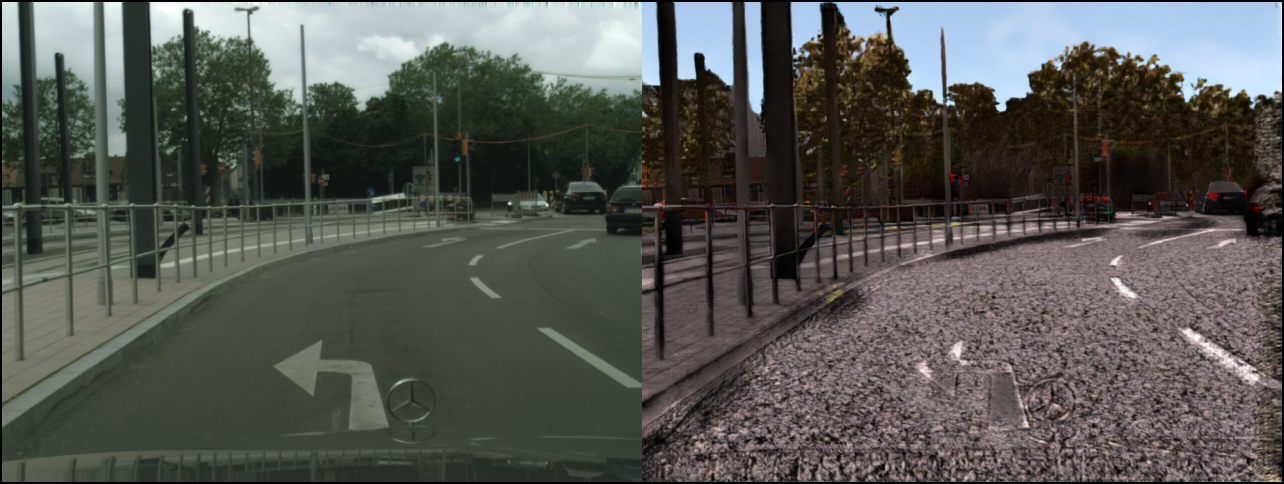
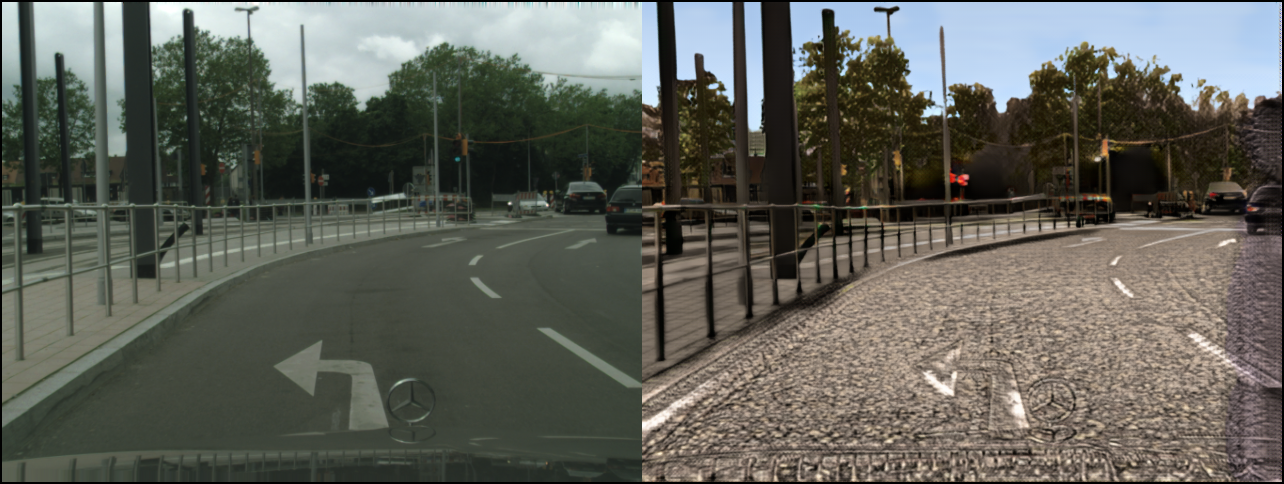
Modify USAGE page

Changed region(s): [[0.4984, 0.0, 1.0, 1.0], [0.4984, 0.031, 0.5296, 0.093]]

diff --git a/src/cocogan_translate_one_image.py b/src/cocogan_translate_one_image.py
@@ -43,7 +43,7 @@ def main(argv):
   # Prepare network
   trainer.gen.load_state_dict(torch.load(opts.weights))
   trainer.cuda(opts.gpu)
-  # trainer.gen.eval()
+  trainer.gen.eval()
 
 
   full_img_name = opts.image_name

diff --git a/USAGE.md b/USAGE.md
@@ -34,20 +34,6 @@ We also provide a [Dockerfile](Dockerfile) for building an environment for runni
 
 #### Testing 
 
-###### Synthetic-to-real and Real-to-synthetic Translation
-1. Download the pretrained model in [link](https://drive.google.com/open?id=1iTQFpyMmMLPe1eY2q-7g-3b5OSlYqc6X) to <outputs/unit/street_scene>
-
-2. Go to <src> and run the following command to translate a real image to a synthetic image.
-    ```
-    python cocogan_translate_one_image.py --config ../exps/unit_local/synthia2cityscape.yaml --a2b 0 --weights ../outputs/unit/street_scene/synthia2cityscape_gen_00250000.pkl --image_name ../images/freiburg_000000_000021_leftImg8bit.png --output_image_name ../results/synthetic_freiburg_000000_000021_leftImg8bit.png
-    ```
-    
-    Go to <src> and run the following command to translate a synthetic image to a real image.
-    
-    ```
-    python cocogan_translate_one_image.py --config ../exps/unit_local/synthia2cityscape.yaml --a2b 1 --weights ../outputs/unit/street_scene/synthia2cityscape_gen_00250000.pkl --image_name ../images/synthia_000898.png --output_image_name ../results/synthetic_synthia_000898.png
-    ```
-
 ###### Cat to Tiger Translation
 1. Download the pretrained model in [link](https://drive.google.com/open?id=0BwpOatrZwxK6V1Bwai1GZFQ2Q0k) to <outputs/unit/cat2tiger>
 
@@ -74,10 +60,21 @@ We also provide a [Dockerfile](Dockerfile) for building an environment for runni
     python cocogan_translate_one_image.py --config ../exps/unit/corgi2husky.yaml --a2b 0 --weights ../outputs/unit/corgi2husky/corgi2husky_gen_00500000.pkl --image_name ../images/husky001.jpg --output_image_name ../results/husky2corgi_husky001.jpg
     ```
 
-4. Check out the results in <results>. Left: Input. Right: Output
+3. Check out the results in <results>. Left: Input. Right: Output
  - ![](./results/corgi2husky_corgi001.jpg)
  - ![](./results/husky2corgi_husky001.jpg)
  
+###### Synthetic-to-real and Real-to-synthetic Translation
+1. Download the pretrained model in [link](https://drive.google.com/open?id=1iTQFpyMmMLPe1eY2q-7g-3b5OSlYqc6X) to <outputs/unit/street_scene>
+
+2. Go to <src> and run the following command to translate a real image to a synthetic image.
+    ```
+    python cocogan_translate_one_image.py --config ../exps/unit_local/synthia2cityscape.yaml --a2b 0 --weights ../outputs/unit/street_scene/synthia2cityscape_gen_00250000.pkl --image_name ../images/freiburg_000000_000021_leftImg8bit.png --output_image_name ../results/synthetic_freiburg_000000_000021_leftImg8bit.png
+    ```
+    
+3. Check out the results in <results>. Left: Input. Right: Output
+ - ![](./results/synthetic_freiburg_000000_000021_leftImg8bit.png)
+
 #### Training
 1. Download the aligned and crop version of the [CelebA dataset](http://mmlab.ie.cuhk.edu.hk/projects/CelebA.html) to <datasets/celeba>. 
 
